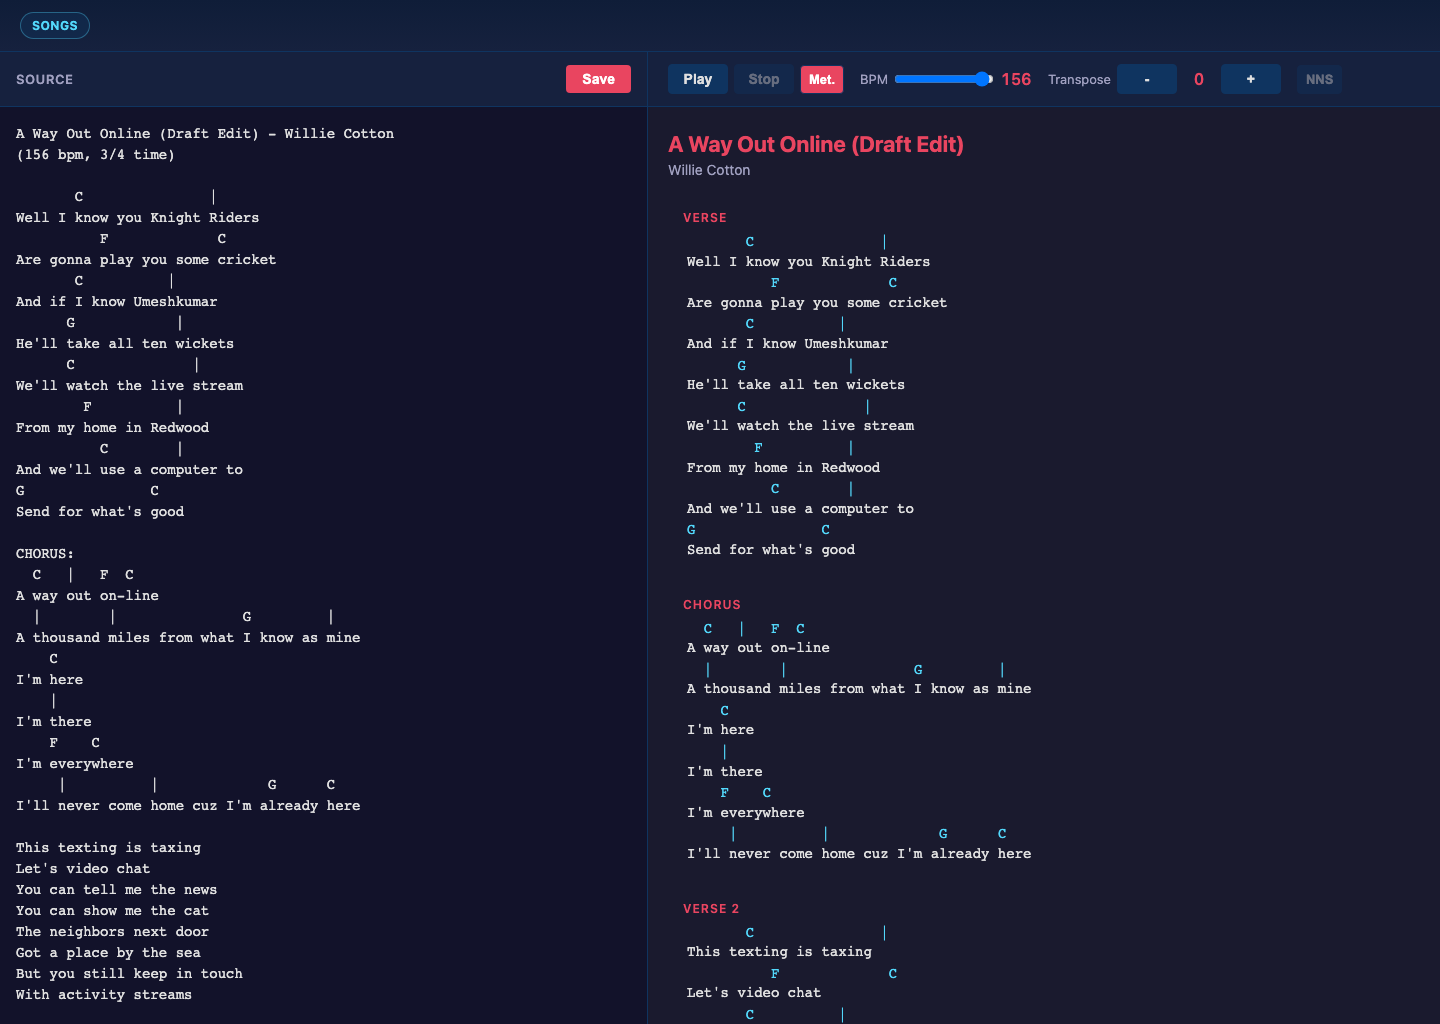
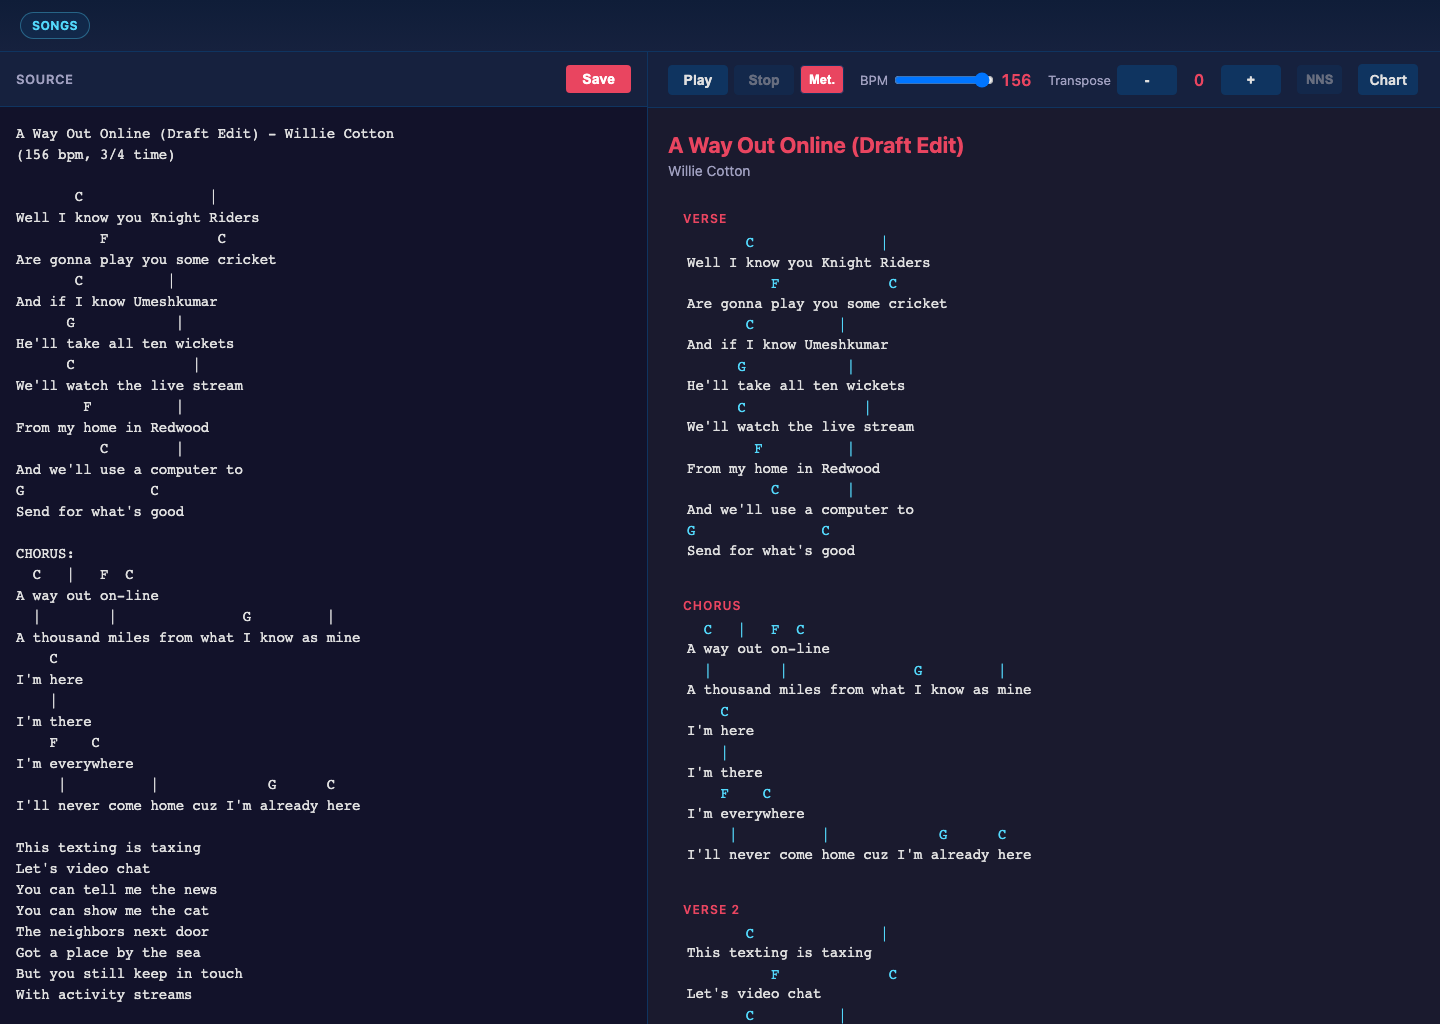
add chart button on edit page

diff --git a/e2e/song-edit.spec.ts b/e2e/song-edit.spec.ts
@@ -12,6 +12,13 @@ test('edit page shows textarea and preview', async ({ page }) => {
   await page.goto('/songs/a-way-out-online/edit')
   await expect(page.locator('.edit-textarea')).toBeVisible()
   await expect(page.locator('.edit-right')).toBeVisible()
+  await expect(page.locator('#btn-back-to-detail')).toBeVisible()
+})
+
+test('Chart link navigates back to song detail page', async ({ page }) => {
+  await page.goto('/songs/a-way-out-online/edit')
+  await page.click('#btn-back-to-detail')
+  await expect(page).toHaveURL('/songs/a-way-out-online')
 })
 
 test('typing in textarea updates preview', async ({ page }) => {

diff --git a/src/components/pages/SongEdit.tsx b/src/components/pages/SongEdit.tsx
@@ -35,6 +35,11 @@ export function SongEdit({ rawText, songId }: { rawText: string; songId: string 
             rawText={editText}
             songId={songId}
             scrollContainerRef={previewRef}
+            extraControls={
+              <div className="control-group">
+                <a id="btn-back-to-detail" href={`/songs/${songId}`} className="btn-link">Chart</a>
+              </div>
+            }
           />
         </div>
       </div>

diff --git a/CLAUDE.md b/CLAUDE.md
@@ -37,7 +37,7 @@ This app is a server-rendered React app (not a single-file SPA). `server.ts` hos
 
 - `src/components/SongView.tsx` — shared component extracted from SongDetail; owns parse/transpose/NNS state, playback controls, click-to-seek, section vamp, and auto-scroll. Accepts `scrollContainerRef` for scrolling within a panel and `extraControls` slot for page-specific buttons.
 - `src/components/pages/SongDetail.tsx` — thin wrapper: Layout + SongView + "Stage", "Export", and "Edit" controls; desktop control-strip width is tuned so these actions stay on one row.
-- `src/components/pages/SongEdit.tsx` — side-by-side textarea editor (left) with live SongView preview (right). Form POST saves via `updateSong` GraphQL mutation. Uses `lastGoodSongRef` in SongView to keep preview stable on parse errors during editing.
+- `src/components/pages/SongEdit.tsx` — side-by-side textarea editor (left) with live SongView preview (right). Form POST saves via `updateSong` GraphQL mutation. Uses `lastGoodSongRef` in SongView to keep preview stable on parse errors during editing, and adds a preview-side `Chart` link back to `/songs/:id`.
 - `src/components/SongPerformance.tsx` — dedicated stage view with enlarged chart typography and minimal transport controls (`Play/Pause`, `Stop`, `Met.`, `Back to Chart`), plus click-to-seek and section vamp toggles.
 - `src/components/ExportMenu.tsx` — detail-page export menu for `PDF / Print`, plain-text `.txt` download, and copyable share link.
 - `src/useAudioPlayback.ts` wraps engine lifecycle/state (`stopped`/`playing`/`paused`), owns `activeHighlight` and vamp state, and bridges callbacks into React state. Accepts `initialBpm`. Includes Safari audio-interruption recovery: visibility change, focus, pageshow, user-gesture, and 3-second polling while playing.
@@ -69,10 +69,10 @@ Two test systems configured via `vitest.config.ts` and `playwright.config.ts`:
   - `test/useAutoScroll.test.ts` — scroll animation hook with rAF mocking
   - `test/audioEngine.test.ts` — Tone.js engine with full mock of Transport/Synth/Draw
   - `test/useAudioPlayback.test.ts` — playback hook lifecycle with mocked engine
-- **Playwright** (29 tests) — browser E2E tests in `e2e/`, run against the dev server
+- **Playwright** (30 tests) — browser E2E tests in `e2e/`, run against the dev server
   - `e2e/song-list.spec.ts` — list page rendering and navigation
   - `e2e/song-detail.spec.ts` — detail page, stage route link, export actions, transpose, Nashville toggle
-  - `e2e/song-edit.spec.ts` — editor, live preview, save
+  - `e2e/song-edit.spec.ts` — editor, chart-link navigation, live preview, save
   - `e2e/playback.spec.ts` — play/pause/stop, click-to-seek, section vamp, performance-page minimal controls
   - `e2e/readme-screenshots.spec.ts` — curated screenshot scenarios for README sections (`readme-*.png`, including `readme-performance-mode.png` and `readme-export.png`)
 

diff --git a/README.md b/README.md
@@ -29,7 +29,7 @@ From this page, `Edit` opens `/songs/:id/edit` for source updates, and `Stage` o
 
 ### 3) Edit plaintext and see the chart update live
 
-The edit view keeps source and rendered output side-by-side, so each change stays grounded in visible feedback. As you type, metadata, chord rows, lyric alignment, and section structure are re-parsed in place, and BPM or meter edits become the next playback behavior without any separate conversion step.
+The edit view keeps source and rendered output side-by-side, so each change stays grounded in visible feedback. As you type, metadata, chord rows, lyric alignment, and section structure are re-parsed in place, and BPM or meter edits become the next playback behavior without any separate conversion step. The preview controls include a `Chart` link to return to `/songs/:id`.
 
 ![Live editing viewport](screenshots/readme-live-edit.png)
 
